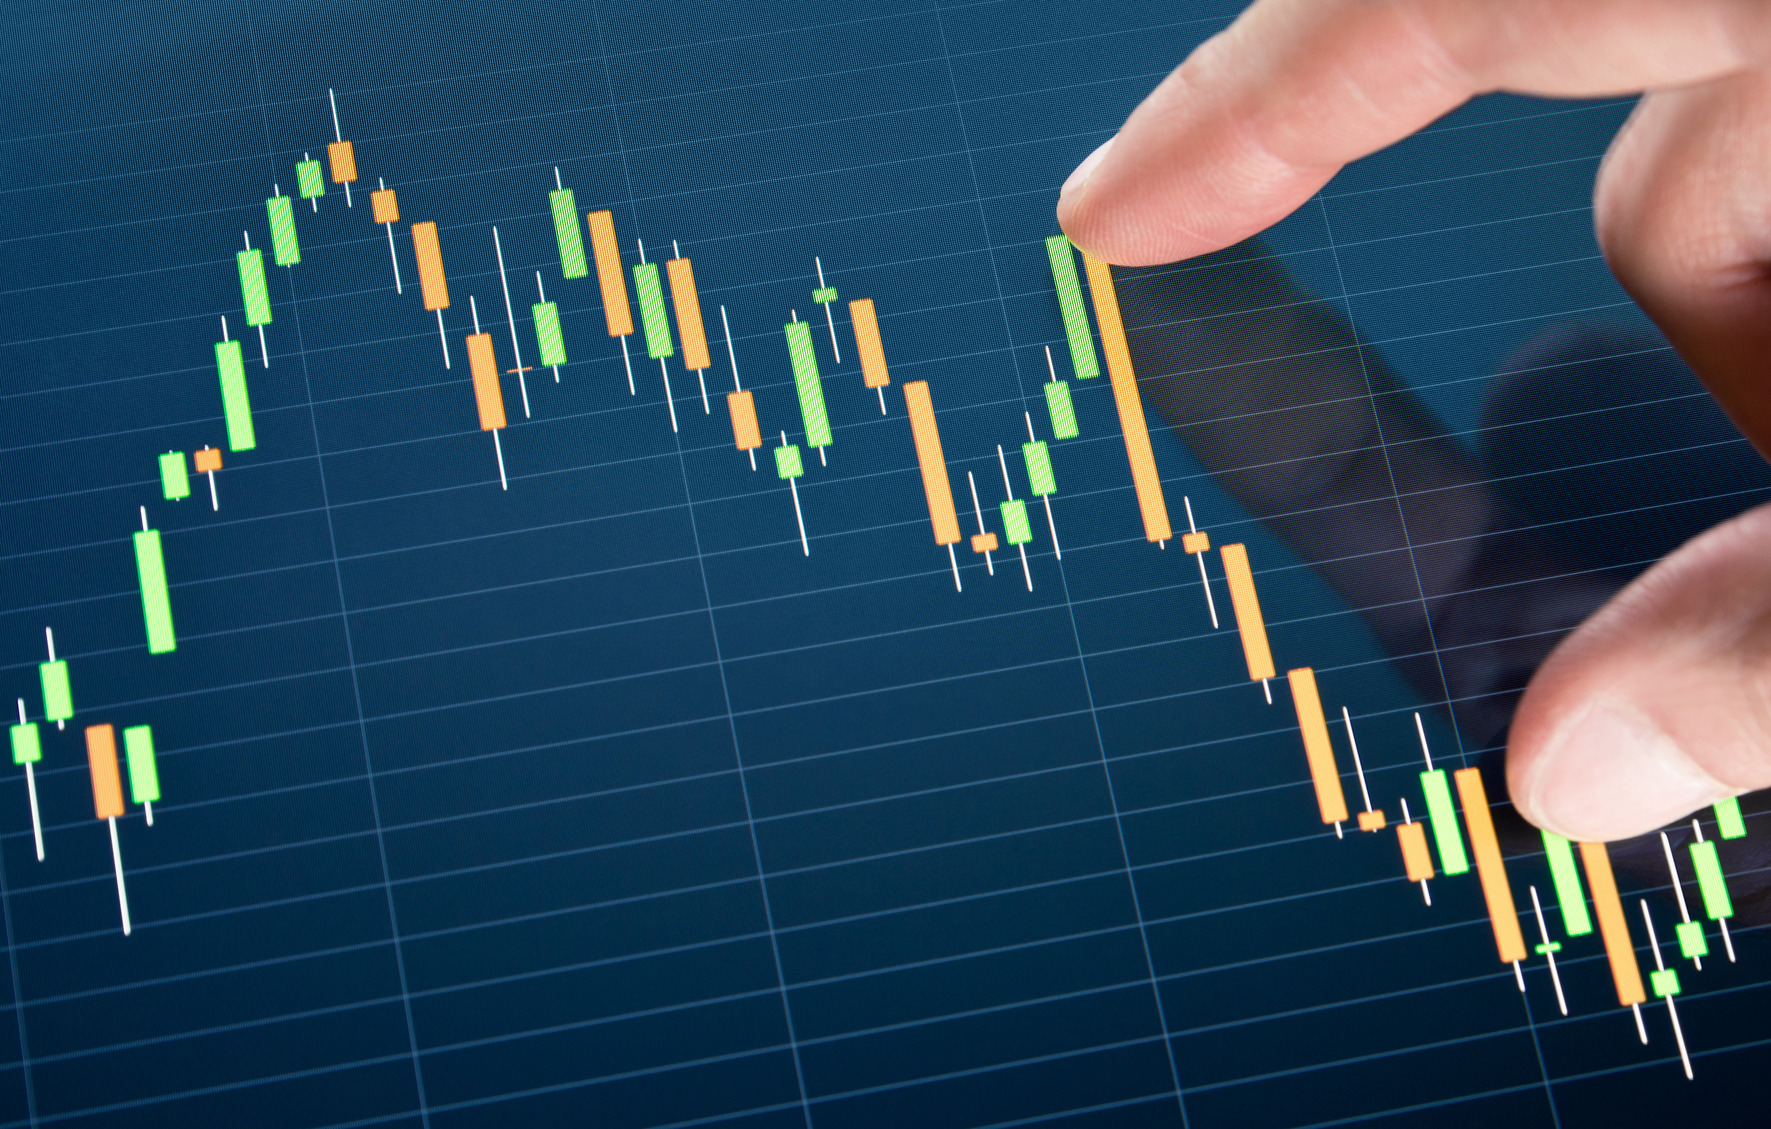
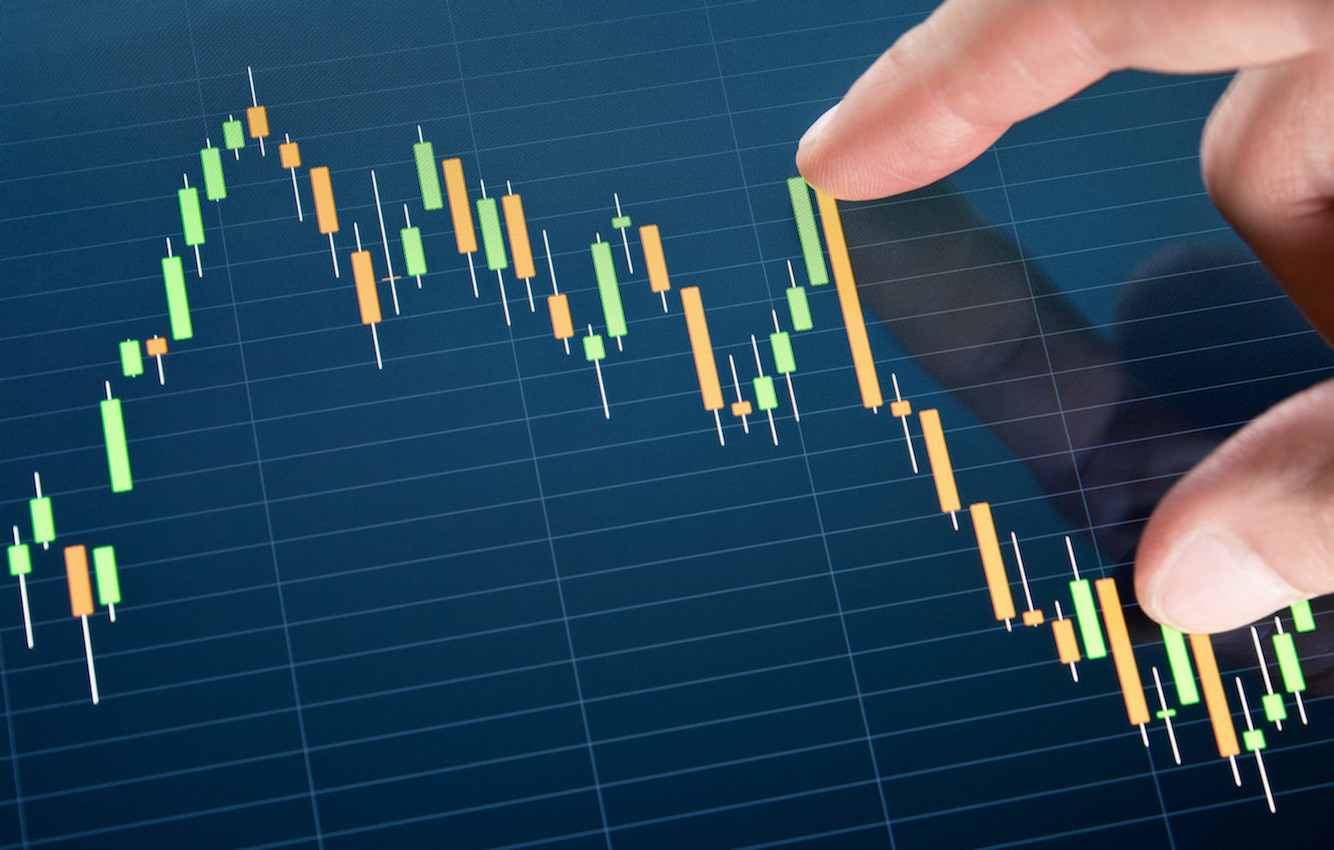
new home design

diff --git a/src/components/Home.vue b/src/components/Home.vue
@@ -1,8 +1,8 @@
 <template>
     <v-container fluid  grid-list-md class="pa-0">
-        <v-parallax src="./src/assets/images/iu-2.jpeg" style="margin-top: -40px;" height="350" jumbotron>
+        <v-parallax src="./src/assets/images/top.jpg" style="margin-top: -40px;" height="670">
             <v-layout column align-center justify-center>
-                <h3 style="position: absolute; top: 100px; font-size: 48px; font-family: 'Roboto', sans-serif" class="white--text parallax-text" v-html="$t('Volume indicator and options online')" />
+                <h3 style="position: absolute; top: 150px; font-size: 48px; font-family: 'Roboto', sans-serif" class="white--text parallax-text" v-html="$t('Volume indicator and options online')" />
 				<p style="position: absolute; bottom: 100px; font-size: 22px; font-family: 'Roboto', sans-serif">
 					{{ $t('Exclusive data analysis from CME to MT4') }}
 				</p>
@@ -152,6 +152,7 @@
 					</v-card-text>
 				</v-card>
 			</v-flex>
+
 			<v-flex d-flex xs12 sm3 md3 v-for="video in videos" :key="video.id.videoId">
 				<iframe width="300" height="200" v-bind:src='video.src' frameborder="0" gesture="media" allow="encrypted-media" allowfullscreen></iframe>
 			</v-flex>
